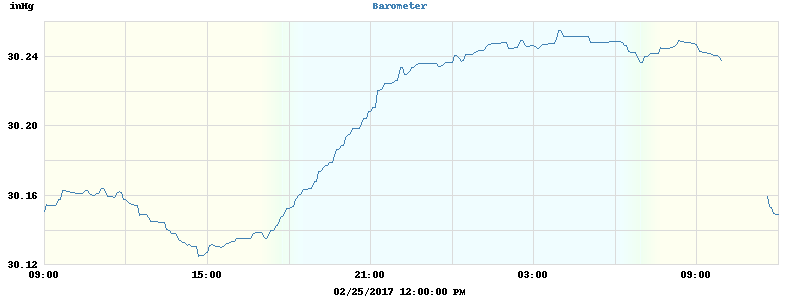
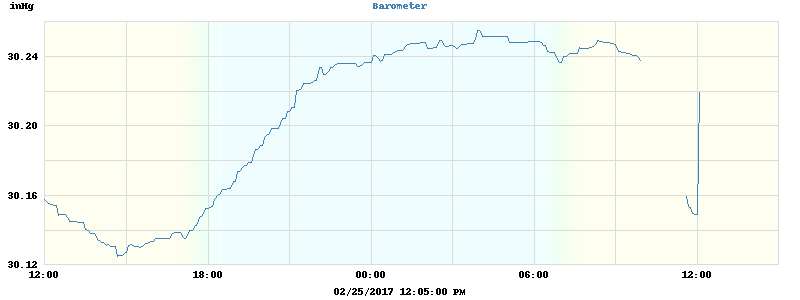
First

diff --git a/index.html b/index.html
@@ -60,17 +60,17 @@ function closeNav() {
             <div class="container-fix" >
                 <div class="h-left" >
                 <h1><i class="fa fa-cloud" ></i> Maple Valley, WA</h1>
-                <p>47&deg; 23.20' N | 122&deg; 01.75' W | 490 feet | <a href="https://www.google.com/maps/?q=Maple Valley, WA" target="_blank" ><i class="fa fa-map-marker" ></i> Show on map</a></p>
+                <p>47&deg; 20.96' N | 122&deg; 02.65' W | 555 feet | <a href="https://www.google.com/maps/?q=Maple Valley, WA" target="_blank" ><i class="fa fa-map-marker" ></i> Show on map</a></p>
                 <h2>Current Weather Conditions</h2>
-                <p><i class="fa fa-clock-o" ></i> 02/25/2017 12:00:00 PM</p>
+                <p><i class="fa fa-clock-o" ></i> 02/25/2017 12:05:00 PM</p>
                 </div>
                 
                 <div class="h-right" >
                     <table>
                         <tr><td><b>Station:</b></td><td>AcuRite 01536</td></tr>
                         <tr><td><b>Software:</b></td><td><a href="http://weewx.com/" target="_blank" >weewx v3.6.2</a></td></tr>
-                        <tr><td><b>Weewx uptime:</b></td><td>0 Days, 2 Hours, 43 Minutes</td></tr>
-                        <tr><td><b>Server uptime:</b></td><td>0 Days, 0 Hours, 55 Minutes</td></tr>
+                        <tr><td><b>Weewx uptime:</b></td><td>0 Days, 2 Hours, 54 Minutes</td></tr>
+                        <tr><td><b>Server uptime:</b></td><td>0 Days, 0 Hours, 1 Minute</td></tr>
                     </table>
                 </div>
 
@@ -103,16 +103,16 @@ function closeNav() {
                 <div class="card" >
                     <h1><i class="fa fa-sun-o m-orange" ></i> Current Conditions</h1>
                     <table class="tablespacer">
-                        <tr><td>Outside Temperature</td><td>40.4&#176;F</td></tr>
-                        <tr><td>Wind Chill</td><td>39.5&#176;F</td></tr>
-                        <tr><td>Heat Index</td><td>40.4&#176;F</td></tr>
-                        <tr><td>Dewpoint</td><td>32.1&#176;F</td></tr>
+                        <tr><td>Outside Temperature</td><td>40.1&#176;F</td></tr>
+                        <tr><td>Wind Chill</td><td>40.1&#176;F</td></tr>
+                        <tr><td>Heat Index</td><td>40.1&#176;F</td></tr>
+                        <tr><td>Dewpoint</td><td>31.8&#176;F</td></tr>
                         <tr><td>Humidity</td><td>72%</td></tr>
-                        <tr><td>Barometer</td><td>30.149 inHg</td></tr>
-                        <tr><td>Barometer Trend (3 Hours)</td><td>-0.098 inHg</td></tr>
-                        <tr><td>Wind</td><td>3 mph S (183&#176;)</td></tr>
+                        <tr><td>Barometer</td><td>30.219 inHg</td></tr>
+                        <tr><td>Barometer Trend (3 Hours)</td><td>-0.024 inHg</td></tr>
+                        <tr><td>Wind</td><td>3 mph SSE (158&#176;)</td></tr>
                         <tr><td>Rain Rate</td><td>0.00 in/h</td></tr>
-                        <tr><td>Inside Temperature</td><td>71.8&#176;F</td></tr>
+                        <tr><td>Inside Temperature</td><td>72.4&#176;F</td></tr>
                     </table>
                 </div>
 
@@ -135,7 +135,7 @@ function closeNav() {
                         <tr><td>Average Wind</td><td>0 mph</td><td></td></tr>
                         <tr><td>RMS Wind</td><td>1 mph</td><td></td></tr>
                         <tr><td>Vector Average Speed</td><td>1 mph</td><td></td></tr>
-                        <tr><td>Vector Average Direction</td><td>173&#176;</td><td></td></tr>
+                        <tr><td>Vector Average Direction</td><td>172&#176;</td><td></td></tr>
                         <tr><td>High Inside Temperature</td><td>72.4&#176;F</td><td>11:59:34 AM</td></tr>
                         <tr><td>Low Inside Temperature</td><td>67.3&#176;F</td><td>04:38:00 AM</td></tr>
                     </table>
@@ -180,8 +180,8 @@ function closeNav() {
                 <div class="card" >
                     <h1><i class="fa fa-star-o m-rot" ></i> Almanac</h1>
                     <table>
-                        <tr><td>Sunrise:</td><td>06:54:35 AM</td></tr>
-                        <tr><td>Sunset:</td><td>05:47:33 PM</td></tr>
+                        <tr><td>Sunrise:</td><td>06:54:36 AM</td></tr>
+                        <tr><td>Sunset:</td><td>05:47:39 PM</td></tr>
                         <tr><td>Moon Phase:</td><td>New<br/>(1% full)</td></tr>
                     </table>
                 </div>

diff --git a/month.html b/month.html
@@ -60,17 +60,17 @@ function closeNav() {
             <div class="container-fix" >
                 <div class="h-left" >
                 <h1><i class="fa fa-cloud" ></i> Maple Valley, WA</h1>
-                <p>47&deg; 23.20' N | 122&deg; 01.75' W | 490 feet | <a href="https://www.google.com/maps/?q=Maple Valley, WA" target="_blank" ><i class="fa fa-map-marker" ></i> Show on map</a></p>
+                <p>47&deg; 20.96' N | 122&deg; 02.65' W | 555 feet | <a href="https://www.google.com/maps/?q=Maple Valley, WA" target="_blank" ><i class="fa fa-map-marker" ></i> Show on map</a></p>
                 <h2>Monthly Weather Summary</h2>
-                <p><i class="fa fa-clock-o" ></i> 02/25/2017 12:00:00 PM</p>
+                <p><i class="fa fa-clock-o" ></i> 02/25/2017 12:05:00 PM</p>
                 </div>
                 
                 <div class="h-right" >
                     <table>
                         <tr><td><b>Station:</b></td><td>AcuRite 01536</td></tr>
                         <tr><td><b>Software:</b></td><td><a href="http://weewx.com/" target="_blank" >weewx v3.6.2</a></td></tr>
-                        <tr><td><b>Weewx uptime:</b></td><td>0 Days, 2 Hours, 43 Minutes</td></tr>
-                        <tr><td><b>Server uptime:</b></td><td>0 Days, 0 Hours, 55 Minutes</td></tr>
+                        <tr><td><b>Weewx uptime:</b></td><td>0 Days, 2 Hours, 54 Minutes</td></tr>
+                        <tr><td><b>Server uptime:</b></td><td>0 Days, 0 Hours, 1 Minute</td></tr>
                     </table>
                 </div>
 

diff --git a/week.html b/week.html
@@ -60,17 +60,17 @@ function closeNav() {
             <div class="container-fix" >
                 <div class="h-left" >
                 <h1><i class="fa fa-cloud" ></i> Maple Valley, WA</h1>
-                <p>47&deg; 23.20' N | 122&deg; 01.75' W | 490 feet | <a href="https://www.google.com/maps/?q=Maple Valley, WA" target="_blank" ><i class="fa fa-map-marker" ></i> Show on map</a></p>
+                <p>47&deg; 20.96' N | 122&deg; 02.65' W | 555 feet | <a href="https://www.google.com/maps/?q=Maple Valley, WA" target="_blank" ><i class="fa fa-map-marker" ></i> Show on map</a></p>
                 <h2>Weekly Weather Summary</h2>
-                <p><i class="fa fa-clock-o" ></i> 02/25/2017 12:00:00 PM</p>
+                <p><i class="fa fa-clock-o" ></i> 02/25/2017 12:05:00 PM</p>
                 </div>
                 
                 <div class="h-right" >
                     <table>
                         <tr><td><b>Station:</b></td><td>AcuRite 01536</td></tr>
                         <tr><td><b>Software:</b></td><td><a href="http://weewx.com/" target="_blank" >weewx v3.6.2</a></td></tr>
-                        <tr><td><b>Weewx uptime:</b></td><td>0 Days, 2 Hours, 43 Minutes</td></tr>
-                        <tr><td><b>Server uptime:</b></td><td>0 Days, 0 Hours, 55 Minutes</td></tr>
+                        <tr><td><b>Weewx uptime:</b></td><td>0 Days, 2 Hours, 54 Minutes</td></tr>
+                        <tr><td><b>Server uptime:</b></td><td>0 Days, 0 Hours, 1 Minute</td></tr>
                     </table>
                 </div>
 

diff --git a/year.html b/year.html
@@ -60,17 +60,17 @@ function closeNav() {
             <div class="container-fix" >
                 <div class="h-left" >
                 <h1><i class="fa fa-cloud" ></i> Maple Valley, WA</h1>
-                <p>47&deg; 23.20' N | 122&deg; 01.75' W | 490 feet | <a href="https://www.google.com/maps/?q=Maple Valley, WA" target="_blank" ><i class="fa fa-map-marker" ></i> Show on map</a></p>
+                <p>47&deg; 20.96' N | 122&deg; 02.65' W | 555 feet | <a href="https://www.google.com/maps/?q=Maple Valley, WA" target="_blank" ><i class="fa fa-map-marker" ></i> Show on map</a></p>
                 <h2>Yearly Weather Summary</h2>
-                <p><i class="fa fa-clock-o" ></i> 02/25/2017 12:00:00 PM</p>
+                <p><i class="fa fa-clock-o" ></i> 02/25/2017 12:05:00 PM</p>
                 </div>
                 
                 <div class="h-right" >
                     <table>
                         <tr><td><b>Station:</b></td><td>AcuRite 01536</td></tr>
                         <tr><td><b>Software:</b></td><td><a href="http://weewx.com/" target="_blank" >weewx v3.6.2</a></td></tr>
-                        <tr><td><b>Weewx uptime:</b></td><td>0 Days, 2 Hours, 43 Minutes</td></tr>
-                        <tr><td><b>Server uptime:</b></td><td>0 Days, 0 Hours, 55 Minutes</td></tr>
+                        <tr><td><b>Weewx uptime:</b></td><td>0 Days, 2 Hours, 54 Minutes</td></tr>
+                        <tr><td><b>Server uptime:</b></td><td>0 Days, 0 Hours, 1 Minute</td></tr>
                     </table>
                 </div>
 
